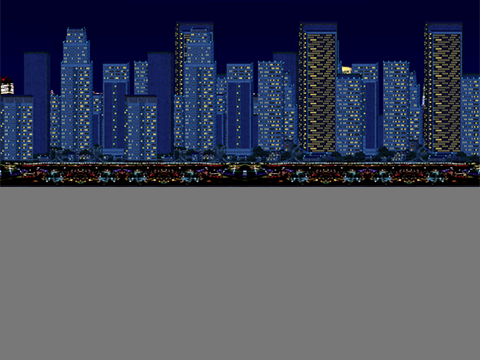
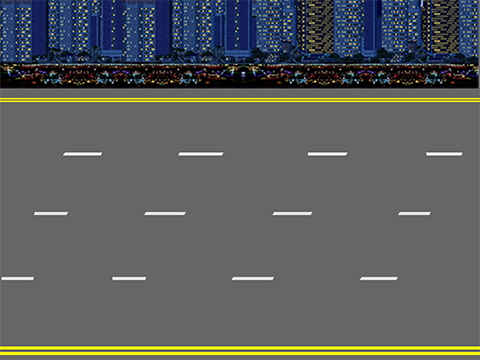
added backdrop, boundary check, 3 cars now

diff --git a/Stage.java b/Stage.java
@@ -96,6 +96,9 @@ public class Stage {
   // load xy grid as backdrop 0
   public void loadDefaultGrid() {
     addBackdrop("images/xy-grid.png");
+    addBackdrop("images/bg_highway.png");
+    addBackdrop("images/bg_the_end.jpg");
+    addBackdrop("images/bg_continued.jpg");
   }
 
   // add costume from bitmap image file

diff --git a/traffic.java b/traffic.java
@@ -270,7 +270,6 @@ public void startOnRight() {
 public void drive() {
   if (direction==90) pos.x=pos.x+10;
   else if (direction==270) pos.x=pos.x-10;
-  p.println(direction);
 }
 
 public boolean driveLeftToRight() {
